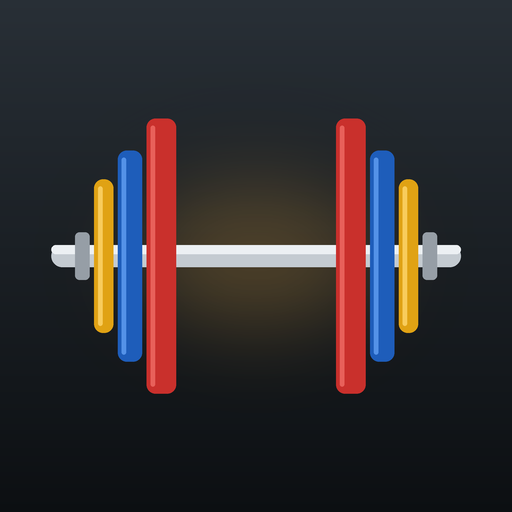
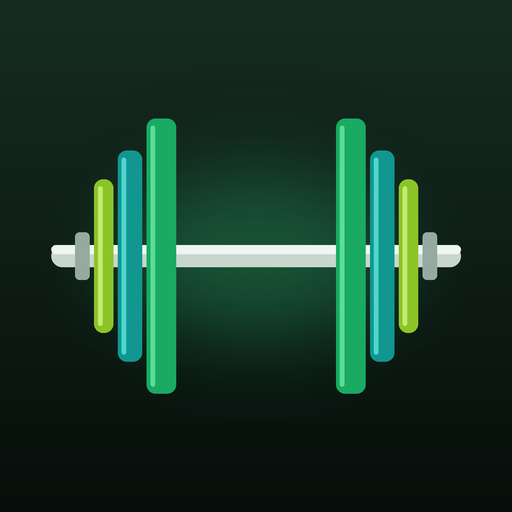
Nuova grafica verde e icona coordinata
Claude-Session: https://claude.ai/code/session_01QmgB25hJCarisEPrNWYcXL

Changed region(s): [[0.1562, 0.2188, 0.8438, 0.7812]]

diff --git a/index.html b/index.html
@@ -7,8 +7,8 @@
 <meta name="mobile-web-app-capable" content="yes">
 <meta name="apple-mobile-web-app-status-bar-style" content="black-translucent">
 <meta name="apple-mobile-web-app-title" content="Palestra">
-<meta name="theme-color" content="#ECEFF1" media="(prefers-color-scheme: light)">
-<meta name="theme-color" content="#0F1214" media="(prefers-color-scheme: dark)">
+<meta name="theme-color" content="#EDF2EE" media="(prefers-color-scheme: light)">
+<meta name="theme-color" content="#0A110E" media="(prefers-color-scheme: dark)">
 <link rel="manifest" href="manifest.webmanifest">
 <link rel="apple-touch-icon" href="apple-touch-icon.png">
 <link rel="icon" href="icon-192.png">
@@ -28,20 +28,23 @@ html,body{overscroll-behavior-y:none}
 <style>
 /* Layout: one-column gym app; sticky header with plate-colour tabs, session blocks in order, fixed rest-timer bar at the bottom. Schede colour-coded like bumper plates: 1 red, 2 blue, 3 yellow. */
 :root{
-  --bg:#ECEFF1; --surface:#FFFFFF; --sunk:#E2E6E9; --ink:#14181B; --muted:#5B656C; --line:#D3D9DD;
-  --s1:#C9302C; --s2:#1E5DBA; --s3:#E0A214; --ok:#2C8A55;
-  --on-s1:#FFFFFF; --on-s2:#FFFFFF; --on-s3:#1A1405;
+  --bg:#EDF2EE; --surface:#FFFFFF; --sunk:#E2EAE4; --ink:#0F1A14; --muted:#56675C; --line:#D1DDD4;
+  --s1:#0F8A50; --s2:#0B7F7A; --s3:#5A850B; --ok:#0F8A50; --bad:#C43C32;
+  --on-s1:#FFFFFF; --on-s2:#FFFFFF; --on-s3:#FFFFFF; --glow:rgba(15,138,80,.16);
   --display:"Barlow Condensed","Arial Narrow",Impact,sans-serif;
   --body:"Barlow",-apple-system,"Segoe UI",Roboto,sans-serif;
   --acc:var(--s1); --on-acc:var(--on-s1);
 }
 @media (prefers-color-scheme: dark){:root:not([data-theme="light"]){
-  --bg:#0F1214; --surface:#192024; --sunk:#12171A; --ink:#ECEFF0; --muted:#97A1A8; --line:#283035;
-  --s1:#EE5450; --s2:#4F8EF0; --s3:#F2BD3C; --ok:#46B479; --on-s1:#16090A; --on-s2:#07111F; --on-s3:#1A1405; color-scheme:dark}}
+  --bg:#0A110E; --surface:#121D18; --sunk:#0D1713; --ink:#E8F2EC; --muted:#8CA394; --line:#1E2F27;
+  --s1:#2FD07F; --s2:#2EC8C0; --s3:#A6DD3C; --ok:#2FD07F; --bad:#F06A5F;
+  --on-s1:#04140B; --on-s2:#031413; --on-s3:#111A02; --glow:rgba(47,208,127,.14); color-scheme:dark}}
 :root[data-theme="dark"]{
-  --bg:#0F1214; --surface:#192024; --sunk:#12171A; --ink:#ECEFF0; --muted:#97A1A8; --line:#283035;
-  --s1:#EE5450; --s2:#4F8EF0; --s3:#F2BD3C; --ok:#46B479; --on-s1:#16090A; --on-s2:#07111F; --on-s3:#1A1405; color-scheme:dark}
+  --bg:#0A110E; --surface:#121D18; --sunk:#0D1713; --ink:#E8F2EC; --muted:#8CA394; --line:#1E2F27;
+  --s1:#2FD07F; --s2:#2EC8C0; --s3:#A6DD3C; --ok:#2FD07F; --bad:#F06A5F;
+  --on-s1:#04140B; --on-s2:#031413; --on-s3:#111A02; --glow:rgba(47,208,127,.14); color-scheme:dark}
 html,body{background:var(--bg)}
+body{background:radial-gradient(120% 60% at 50% -10%,var(--glow),transparent 60%) no-repeat,var(--bg);background-attachment:fixed}
 body{color:var(--ink);font-family:var(--body);font-size:16px;line-height:1.4;-webkit-font-smoothing:antialiased;
   padding-left:max(16px,env(safe-area-inset-left,0px));padding-right:max(16px,env(safe-area-inset-right,0px));padding-block:0 32px;
   font-variant-numeric:tabular-nums;-webkit-tap-highlight-color:transparent}
@@ -53,9 +56,12 @@ button:focus-visible,input:focus-visible,a:focus-visible{outline:3px solid var(-
 .wrap{max-width:640px;margin:0 auto}
 
 /* header */
-header{position:sticky;top:env(safe-area-inset-top,0px);z-index:20;background:var(--bg);padding-block:10px 8px;display:grid;gap:10px}
+header{position:sticky;top:env(safe-area-inset-top,0px);z-index:20;background:color-mix(in srgb,var(--bg) 86%,transparent);-webkit-backdrop-filter:blur(14px);backdrop-filter:blur(14px);margin-inline:-16px;padding-inline:16px;padding-block:10px 8px;display:grid;gap:10px}
 .toprow{display:flex;align-items:baseline;justify-content:space-between;gap:12px}
 h1{font-family:var(--display);font-weight:800;font-size:28px;letter-spacing:.01em;margin:0;text-transform:uppercase;line-height:1}
+h1{display:flex;align-items:center;gap:10px}
+.mark{width:26px;height:26px;border-radius:8px;background:linear-gradient(135deg,var(--s1),var(--s2));box-shadow:0 4px 14px var(--glow);position:relative;flex:none}
+.mark::after{content:"";position:absolute;inset:10px 4px;border-radius:3px;background:var(--on-s1);opacity:.9}
 .clock{font-family:var(--display);font-weight:700;font-size:18px;color:var(--muted)}
 .tabs{display:grid;grid-template-columns:repeat(3,1fr) auto;gap:6px}
 .tab{display:flex;flex-direction:column;align-items:flex-start;gap:2px;padding:8px 10px;border-radius:10px;background:var(--surface);border:1px solid var(--line);text-align:left;min-width:0}
@@ -69,7 +75,7 @@ h1{font-family:var(--display);font-weight:800;font-size:28px;letter-spacing:.01e
 .tab.hist svg{width:22px;height:22px}
 .tab.hist[aria-selected="true"]{background:var(--ink);color:var(--bg);border-color:var(--ink)}
 .progress{height:6px;border-radius:3px;background:var(--sunk);overflow:hidden}
-.progress b{display:block;height:100%;width:0;background:var(--acc);transition:width .35s ease}
+.progress b{display:block;height:100%;width:0;background:linear-gradient(90deg,var(--s1),var(--s3));transition:width .35s ease}
 
 /* banner */
 .banner{display:flex;gap:12px;align-items:center;justify-content:space-between;padding:12px 14px;border-radius:12px;background:var(--surface);border:1px solid var(--line);margin-top:6px}
@@ -102,8 +108,8 @@ h1{font-family:var(--display);font-weight:800;font-size:28px;letter-spacing:.01e
 .play.big{background:var(--acc);color:var(--on-acc)}
 
 /* exercise card */
-.ex{background:var(--surface);border:1px solid var(--line);border-radius:14px;overflow:hidden}
-.ex.complete{border-color:var(--ok)}
+.ex{background:var(--surface);border:1px solid var(--line);border-radius:16px;overflow:hidden;box-shadow:0 1px 0 rgba(0,0,0,.02),0 8px 24px -16px rgba(0,0,0,.25)}
+.ex.complete{border-color:var(--ok);box-shadow:0 0 0 1px var(--ok),0 8px 24px -14px var(--glow)}
 .anim{position:relative;aspect-ratio:4/3;max-width:100%;background:#fff;overflow:hidden}
 .anim img{position:absolute;inset:0;width:100%;height:100%;object-fit:cover;display:block}
 .anim img.b{animation:swap 2.4s ease-in-out infinite}
@@ -114,7 +120,7 @@ h1{font-family:var(--display);font-weight:800;font-size:28px;letter-spacing:.01e
 .how ol{margin:0;padding-left:20px;display:grid;gap:4px;font-size:14.5px;line-height:1.4}
 .how .mus{font-size:12px;font-weight:700;letter-spacing:.06em;text-transform:uppercase;color:var(--muted)}
 .how .err{font-size:14px;padding:8px 10px;border-radius:8px;background:var(--sunk)}
-.how .err b{color:var(--s1)}
+.how .err b{color:var(--bad)}
 details.more{border-top:1px solid var(--line);margin-top:2px}
 details.more summary{list-style:none;cursor:pointer;padding:10px 0 2px;font-weight:700;font-size:14px;color:var(--acc);display:flex;align-items:center;gap:6px}
 .s3 details.more summary{color:var(--ink)}
@@ -161,7 +167,7 @@ details.more .inner{display:grid;gap:10px;padding-top:8px}
 .setctl div{display:flex;gap:6px}
 .setctl button{padding:6px 10px;border-radius:8px;background:var(--sunk);font-weight:600;font-size:13px}
 
-.start{width:100%;margin-top:14px;padding:14px;border-radius:12px;background:var(--acc);color:var(--on-acc);font-family:var(--display);font-weight:800;font-size:22px;text-transform:uppercase;letter-spacing:.03em}
+.start{width:100%;margin-top:14px;padding:16px;border-radius:14px;background:linear-gradient(135deg,var(--acc),color-mix(in srgb,var(--acc) 70%,var(--s2)));box-shadow:0 10px 26px -12px var(--acc);color:var(--on-acc);font-family:var(--display);font-weight:800;font-size:22px;text-transform:uppercase;letter-spacing:.03em}
 .finish{width:100%;padding:16px;border-radius:12px;background:var(--ink);color:var(--bg);font-family:var(--display);font-weight:800;font-size:22px;text-transform:uppercase;letter-spacing:.03em;margin-top:22px}
 .foot{margin-top:18px;font-size:13px;color:var(--muted);line-height:1.45}
 
@@ -196,7 +202,7 @@ details.more .inner{display:grid;gap:10px;padding-top:8px}
 .sess li span:last-child{color:var(--muted);text-align:right}
 .sess .act{display:flex;gap:8px;justify-content:flex-end}
 .sess .act button{font-size:13px;font-weight:600;padding:6px 10px;border-radius:8px;background:var(--sunk)}
-.sess .act button.danger{background:var(--s1);color:var(--on-s1)}
+.sess .act button.danger{background:var(--bad);color:#fff}
 .empty{padding:22px 16px;border:2px dashed var(--line);border-radius:12px;color:var(--muted);text-align:center}
 
 /* summary sheet */
@@ -217,7 +223,7 @@ details.more .inner{display:grid;gap:10px;padding-top:8px}
 
 <div class="wrap" id="app">
   <header>
-    <div class="toprow"><h1>Palestra</h1><div class="clock" id="clock"></div></div>
+    <div class="toprow"><h1><span class="mark" aria-hidden="true"></span>Palestra</h1><div class="clock" id="clock"></div></div>
     <div class="tabs" role="tablist" id="tabs"></div>
     <div class="progress" aria-hidden="true"><b id="bar"></b></div>
   </header>
@@ -247,7 +253,7 @@ details.more .inner{display:grid;gap:10px;padding-top:8px}
 const CARDIO={id:'cardio',name:'Cardio',dur:420,cue:'Cyclette o rower, ritmo blando: devi riuscire a parlare.'};
 const MOB=[
  {id:'mob-spalle',name:'Circonduzioni spalle',dur:60,half:true,cue:'Cerchi ampi: 30" indietro, poi 30" avanti. Lento.'},
- {id:'mob-torace',name:'Apertura torace',dur:60,cue:'Mani dietro la nuca, gomiti indietro, tieni 3" e torna.'},
+ {id:'mob-torace',name:'Apertura torace',dur:60,cue:'Braccia tese avanti, aprile indietro stringendo le scapole, poi richiudi.'},
  {id:'mob-anche',name:'Mobilità anche',dur:60,cue:'Ginocchio all\'altezza dell\'anca, cerchio verso l\'esterno. 15" per gamba per senso.'},
  {id:'mob-caviglie',name:'Caviglie',dur:60,half:true,cue:'Affondo leggero, ginocchio oltre la punta, tallone a terra. 30" per lato.'}
 ];

diff --git a/sw.js b/sw.js
@@ -1,4 +1,4 @@
-const C='palestra-v3';
+const C='palestra-v4';
 const CORE=['./','index.html','manifest.webmanifest','apple-touch-icon.png','icon-192.png','icon-512.png'];
 self.addEventListener('install',e=>{e.waitUntil(caches.open(C).then(c=>c.addAll(CORE)).then(()=>self.skipWaiting()))});
 self.addEventListener('activate',e=>{e.waitUntil(caches.keys().then(ks=>Promise.all(ks.filter(k=>k!==C).map(k=>caches.delete(k)))).then(()=>self.clients.claim()))});
